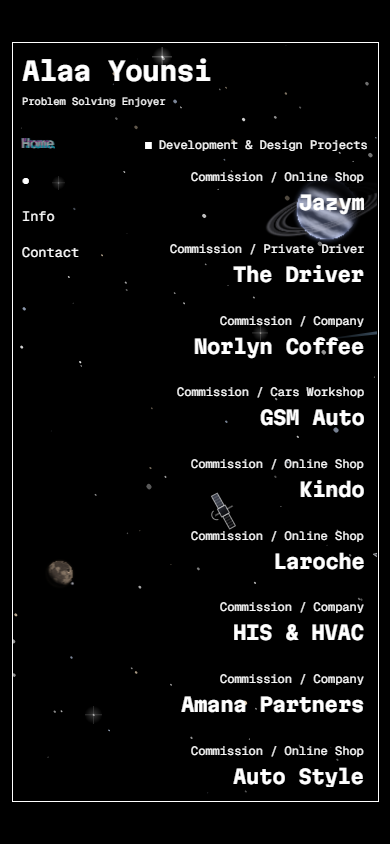
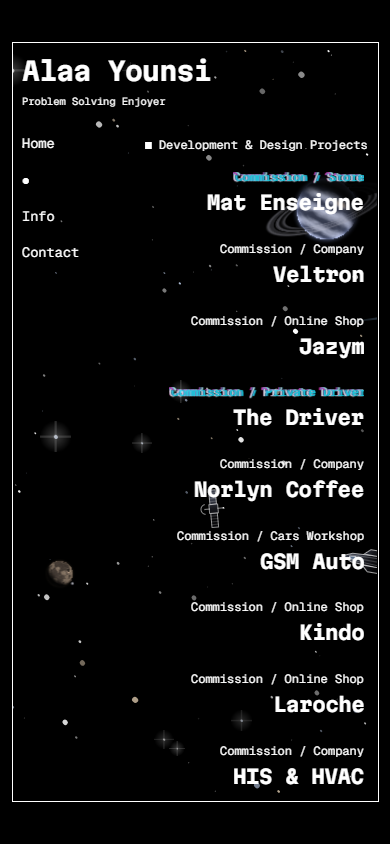
Add Veltron and Mat Enseigne to the project list
Both are new work, so they head the list: Mat Enseigne above Veltron,
following the convention that the first name given sits lower.

The biography's commissions paragraph names every live project, so it
gains both, and each site is captured for the article's image pool.

diff --git a/src/data/biography.ts b/src/data/biography.ts
@@ -49,7 +49,7 @@ export const chronicle: Chronicle = {
       paragraphs: [
         "Software engineering and AI systems: full-stack web development, AI agents and SaaS products, automation, Linux, networking, and security. I am at home from the first pixel to the last packet.",
         "Design, content and growth: UI/UX design, visual content creation, and performance-driven digital marketing for products and brands. Building something is half the job. Making sure it is seen and understood is the other half.",
-        "Most of my work is commissioned, and delivered end to end: online shops for Northernwest, Auto Style, Laroche, Kindo and Jazym; company sites for Afia Export, Amana Partners, HIS & HVAC and Norlyn Coffee; a ceramic-surface store for Arcada; a parts and repair workshop for GSM Auto; a booking platform for a private driver in Paris. Each one is live, and each one taught me something the last one could not.",
+        "Most of my work is commissioned, and delivered end to end: online shops for Northernwest, Auto Style, Laroche, Kindo and Jazym; company sites for Afia Export, Amana Partners, HIS & HVAC, Norlyn Coffee and Veltron; storefronts for Arcada's ceramic surfaces and Mat Enseigne's Paris signage; a parts and repair workshop for GSM Auto; a booking platform for a private driver. Each one is live, and each one taught me something the last one could not.",
       ],
     },
     {

diff --git a/src/data/projects.ts b/src/data/projects.ts
@@ -10,6 +10,8 @@ export type Project = {
  * at the foot of the list.
  */
 export const projects: readonly Project[] = [
+  { meta: "Commission / Store", title: "Mat Enseigne", url: "https://mat-enseigne.vercel.app/" },
+  { meta: "Commission / Company", title: "Veltron", url: "https://veltrontrading.com/en" },
   { meta: "Commission / Online Shop", title: "Jazym", url: "https://jazym.vercel.app/" },
   { meta: "Commission / Private Driver", title: "The Driver", url: "https://thedriver.fr/" },
   { meta: "Commission / Company", title: "Norlyn Coffee", url: "https://www.norlyncoffee.com/" },
